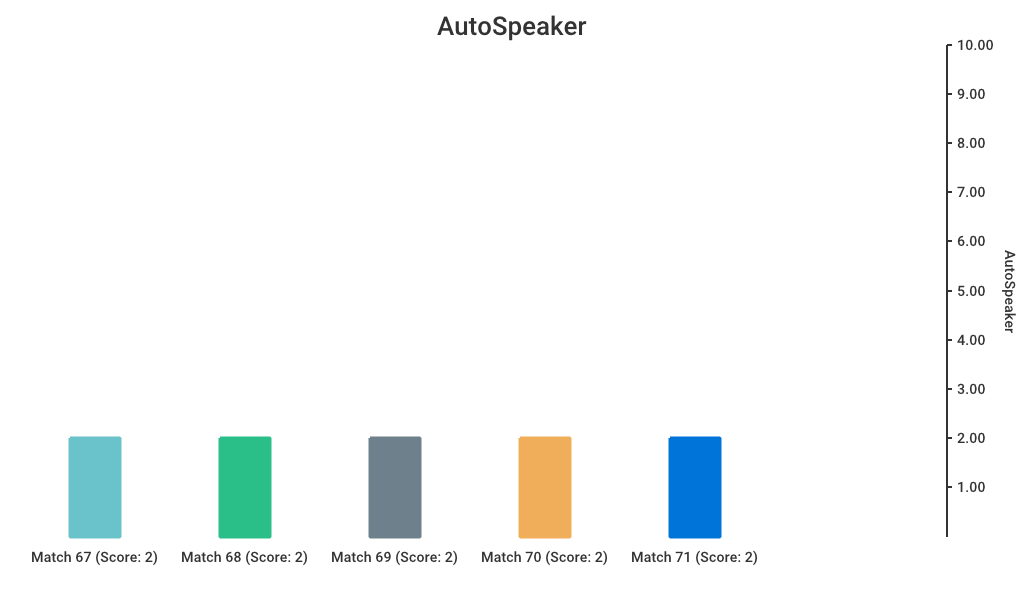
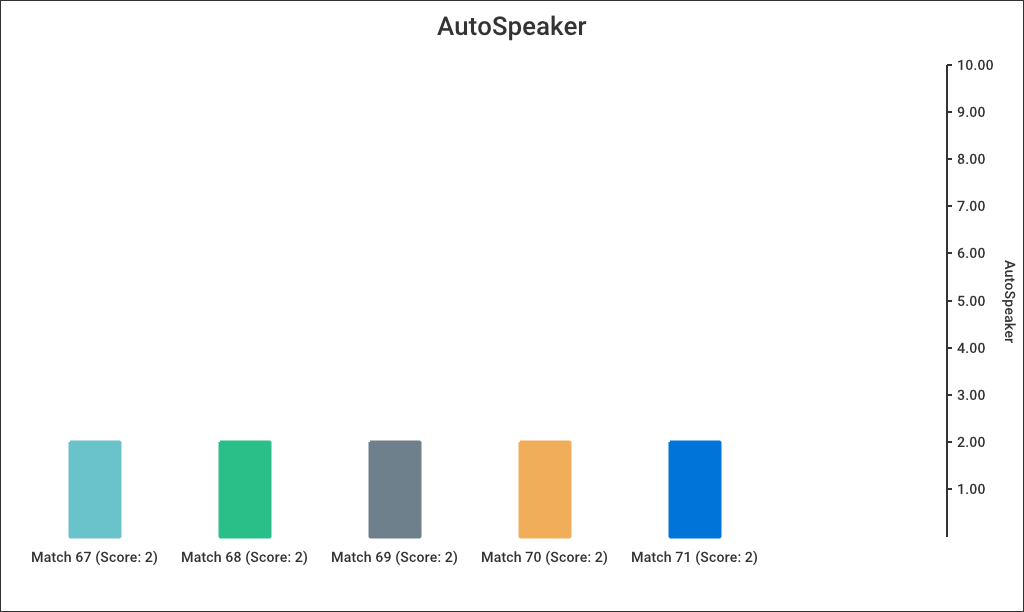
did the graph

diff --git a/main.go b/main.go
@@ -470,7 +470,7 @@ func main() {
 		teamLookupN.Hide()
 	})
 	teamLookupNChoice := ""
-	teamLookupNDropDown := widget.NewSelect([]string{"AutoAmps", "AutoSpeaker", "AutoLeave", "TeleopAmps", "TeleopSpeaker", "Penalties", "TechPenalties"}, func(s string) { teamLookupNChoice = s })
+	teamLookupNDropDown := widget.NewSelect([]string{"AutoAmps", "AutoSpeaker", "TeleopAmps", "TeleopSpeaker", "Penalties", "TechPenalties", "GeneralAuto", "GeneralTeleop", "GeneralData"}, func(s string) { teamLookupNChoice = s })
 
 	teamLookupNAverages := widget.NewLabel("")
 	teamLookupNMedians := widget.NewLabel("")
@@ -492,13 +492,18 @@ func main() {
 			"AutoSpeaker":   {},
 			"TeleopAmps":    {},
 			"TeleopSpeaker": {},
+			"Penalties":     {},
+			"TechPenalties": {},
 		}
+		kMatchNum := map[string][]int{}
+		kMatchVAutons := map[string][]int{}
+		kMatchVTeleops := map[string][]int{}
 		if previous != teamLookupNSearch.Text {
 			increments := []chart.Tick{}
 			for i := 1; i < 11; i++ {
 				increments = append(increments, chart.Tick{Value: float64(i), Label: fmt.Sprintf("%.2f", float64(i))})
 			}
-
+			matches := []string{}
 			for _, v := range allData {
 
 				if v.TeamName != teamLookupNSearch.Text || strconv.Itoa(v.TeamNumber) != teamLookupNSearch.Text {
@@ -508,24 +513,49 @@ func main() {
 				datas["AutoSpeaker"] = append(datas["AutoSpeaker"], []int{v.AutoSpeaker, v.MatchNumber})
 				datas["TeleopAmps"] = append(datas["TeleopAmps"], []int{v.TeleopAmps, v.MatchNumber})
 				datas["TeleopSpeaker"] = append(datas["TeleopSpeaker"], []int{v.TeleopSpeaker, v.MatchNumber})
+				datas["Penalties"] = append(datas["Penalties"], []int{v.Penalties, v.MatchNumber})
+				datas["TechPenalties"] = append(datas["TechPenalties"], []int{v.TechPenalties, v.MatchNumber})
+				_, ok := kMatchNum[fmt.Sprintf("%v", v.MatchNumber)]
+				if !ok {
+					kMatchNum[fmt.Sprintf("%v", v.MatchNumber)] = []int{0, 0}
+				}
+				_, ok = kMatchVAutons[fmt.Sprintf("%v", v.MatchNumber)]
+				if !ok {
+					kMatchVAutons[fmt.Sprintf("%v", v.MatchNumber)] = []int{0, 0}
+				}
+				_, ok = kMatchVTeleops[fmt.Sprintf("%v", v.MatchNumber)]
+				if !ok {
+					kMatchVTeleops[fmt.Sprintf("%v", v.MatchNumber)] = []int{0, 0}
+				}
+				kMatchNum[fmt.Sprintf("%v", v.MatchNumber)][0] += v.AutoAmps + v.AutoSpeaker
+				kMatchNum[fmt.Sprintf("%v", v.MatchNumber)][1] += v.TeleopAmps + v.TeleopSpeaker
+				kMatchVAutons[fmt.Sprintf("%v", v.MatchNumber)][0] += v.AutoAmps
+				kMatchVAutons[fmt.Sprintf("%v", v.MatchNumber)][1] += v.AutoSpeaker
+				kMatchVTeleops[fmt.Sprintf("%v", v.MatchNumber)][0] += v.TeleopAmps
+				kMatchVTeleops[fmt.Sprintf("%v", v.MatchNumber)][1] += v.TeleopSpeaker
+
+				//comment node
 				//could use reflection
+
 				for k, v := range datas {
 					sort.Slice(v, func(i, j int) bool {
 						return v[i][1] < v[j][1]
 					})
 					values := []chart.Value{}
 					for _, val := range v {
+						matches = append(matches, fmt.Sprintf("Match %v", val[1]))
 						values = append(values, chart.Value{Value: float64(val[0]), Label: fmt.Sprintf("Match %v (Score: %v)", val[1], val[0])})
 					}
-
 					graph := chart.
 						BarChart{
 						Title: k,
 						Background: chart.Style{
 							Padding: chart.Box{
-								Top:    40,
+								Top:    60,
 								Bottom: 40,
 							},
+							StrokeWidth: 2.0,
+							StrokeColor: chart.ColorBlack,
 						},
 						YAxis: chart.YAxis{
 							Name:      k,
@@ -540,6 +570,72 @@ func main() {
 					bufToWrite, _ := os.Create(fmt.Sprintf("graphs/%v.png", k))
 					_ = graph.Render(chart.PNG, bufToWrite)
 
+				}
+				//kMatchVValues := map[string][]string{}
+
+				all := []chart.StackedBar{}
+				autons := []chart.StackedBar{}
+				teleops := []chart.StackedBar{}
+				for k, v := range kMatchNum {
+					all = append(all, chart.StackedBar{
+						Name:  fmt.Sprintf("Match %v", k),
+						Width: 80,
+						Values: []chart.Value{
+							{Value: float64(v[0]), Label: fmt.Sprintf("Auto %v", v[0]), Style: chart.Style{FillColor: chart.ColorGreen, FontColor: chart.ColorWhite, StrokeColor: chart.ColorBlack}},
+							{Value: float64(v[1]), Label: fmt.Sprintf("Tel %v", v[1]), Style: chart.Style{FillColor: chart.ColorRed, FontColor: chart.ColorWhite, StrokeColor: chart.ColorBlack}},
+						},
+					})
+				}
+				for k, v := range kMatchVAutons {
+					autons = append(autons, chart.StackedBar{
+						Name:  fmt.Sprintf("Match %v", k),
+						Width: 80,
+						Values: []chart.Value{
+							{Value: float64(v[0]), Label: fmt.Sprintf("Amp %v", v[0]), Style: chart.Style{FillColor: chart.ColorYellow, FontColor: chart.ColorWhite, StrokeColor: chart.ColorBlack}},
+							{Value: float64(v[1]), Label: fmt.Sprintf("Sp. %v", v[1]), Style: chart.Style{FillColor: chart.ColorOrange, FontColor: chart.ColorWhite, StrokeColor: chart.ColorBlack}},
+						},
+					})
+				}
+				for k, v := range kMatchVTeleops {
+					teleops = append(teleops, chart.StackedBar{
+						Name:  fmt.Sprintf("Match %v", k),
+						Width: 80,
+						Values: []chart.Value{
+							{Value: float64(v[0]), Label: fmt.Sprintf("Amp %v", v[0]), Style: chart.Style{FillColor: chart.ColorYellow, FontColor: chart.ColorWhite, StrokeColor: chart.ColorBlack}},
+							{Value: float64(v[1]), Label: fmt.Sprintf("Sp. %v", v[1]), Style: chart.Style{FillColor: chart.ColorOrange, FontColor: chart.ColorWhite, StrokeColor: chart.ColorBlack}},
+						},
+					})
+				}
+
+				totals := [][]chart.StackedBar{all, autons, teleops}
+				names := map[int]string{
+					0: "GeneralData",
+					1: "GeneralAuto",
+					2: "GeneralTeleop",
+				}
+				for i, v := range totals {
+					curr := chart.Shown()
+					curr.FontColor = chart.ColorWhite //should get garbage collected
+					sbc := chart.StackedBarChart{
+						Title:      names[i],
+						TitleStyle: curr,
+						Background: chart.Style{
+							Padding: chart.Box{
+								Top:    100,
+								Bottom: 100,
+							},
+							FillColor: chart.ColorWhite,
+						},
+						Height: 612,
+						XAxis: chart.Style{
+							FontColor: chart.ColorWhite,
+						},
+						YAxis:      curr,
+						BarSpacing: 80,
+						Bars:       v,
+					}
+					bufToWrite, _ := os.Create(fmt.Sprintf("graphs/%v.png", names[i]))
+					_ = sbc.Render(chart.PNG, bufToWrite)
 				}
 			}
 			previous = teamLookupNSearch.Text
